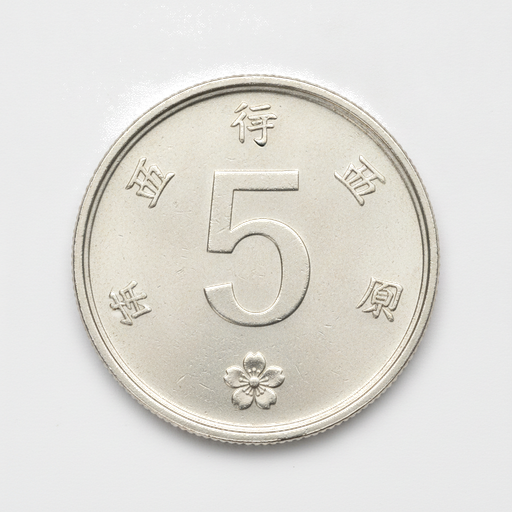
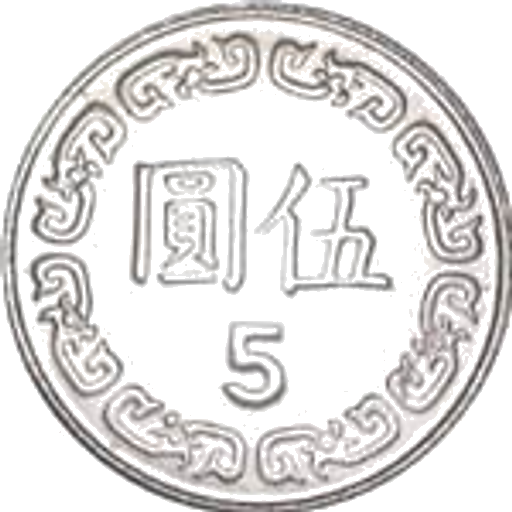
Use real NT coin photos with correct proportional sizes; add 20/50 元
Replaces the Nano-generated coin PNGs with the user-supplied real NT
coin photos (JPGs converted to transparent-background PNGs via sharp,
20/50 元 auto-cropped from their double-face source images).

Coin display diameters are scaled from the real millimetre sizes
(1 元 20 mm as the 16% baseline):

  1 元  20 mm  → 16.0%
  5 元  22 mm  → 17.6%
 10 元  26 mm  → 20.8%
 20 元  26.85 → 21.5%
 50 元  28 mm  → 22.4%

Denominations 20/50 元 are added to the pool when the 超過 20 元 toggle
is on (raising the target range to 25-99).

diff --git a/src/pages/money-count.js b/src/pages/money-count.js
@@ -1,31 +1,30 @@
 import { createCoinFigure, updateCoinFigure, totalOf } from '../components/coin-figure.js';
 
 function rollCoins({ allowTen, over20 }) {
-  const targetMin = over20 ? 15 : 3;
-  const targetMax = over20 ? 55 : 20;
+  const targetMin = over20 ? 25 : 3;
+  const targetMax = over20 ? 99 : 20;
+
+  // Larger denominations only kick in for the "over 20" mode; otherwise the
+  // exercise stays focused on 1/5 (+ 10 if enabled).
+  const denomsDesc = over20
+    ? (allowTen ? [50, 20, 10, 5] : [50, 20, 5])
+    : (allowTen ? [10, 5] : [5]);
 
   // Cap the number of coins to keep the counting exercise tractable.
-  for (let attempt = 0; attempt < 30; attempt++) {
+  for (let attempt = 0; attempt < 40; attempt++) {
     const target = targetMin + Math.floor(Math.random() * (targetMax - targetMin + 1));
     let remaining = target;
     const coins = [];
 
-    if (allowTen) {
-      const max = Math.floor(remaining / 10);
+    for (const d of denomsDesc) {
+      const max = Math.floor(remaining / d);
       const n = Math.floor(Math.random() * (max + 1));
-      for (let i = 0; i < n; i++) coins.push(10);
-      remaining -= n * 10;
-    }
-    {
-      const max = Math.floor(remaining / 5);
-      const n = Math.floor(Math.random() * (max + 1));
-      for (let i = 0; i < n; i++) coins.push(5);
-      remaining -= n * 5;
+      for (let i = 0; i < n; i++) coins.push(d);
+      remaining -= n * d;
     }
     for (let i = 0; i < remaining; i++) coins.push(1);
 
     if (coins.length >= 2 && coins.length <= 5) {
-      // shuffle
       for (let i = coins.length - 1; i > 0; i--) {
         const j = Math.floor(Math.random() * (i + 1));
         [coins[i], coins[j]] = [coins[j], coins[i]];
@@ -33,7 +32,7 @@ function rollCoins({ allowTen, over20 }) {
       return coins;
     }
   }
-  return [1, 5]; // extreme fallback
+  return [1, 5];
 }
 
 export function renderMoneyCount(root) {

diff --git a/src/components/coin-figure.js b/src/components/coin-figure.js
@@ -7,13 +7,22 @@ const COIN_SRC = {
   1:  `${B}assets/scenes-6/coin1.png`,
   5:  `${B}assets/scenes-6/coin5.png`,
   10: `${B}assets/scenes-6/coin10.png`,
+  20: `${B}assets/scenes-6/coin20.png`,
+  50: `${B}assets/scenes-6/coin50.png`,
 };
 
-// Diameter as a percentage of the scene container.
+// Diameter as a percentage of the scene container, scaled from the real-world
+// NT coin diameters (1 元 = 20 mm baseline):
+//   5 元 22 mm  → ×1.10
+//  10 元 26 mm  → ×1.30
+//  20 元 26.85 mm → ×1.34
+//  50 元 28 mm  → ×1.40
 const COIN_SIZE = {
-  1:  16,
-  5:  19,
-  10: 23,
+  1:  16.0,
+  5:  17.6,
+  10: 20.8,
+  20: 21.5,
+  50: 22.4,
 };
 
 // Pick a spot that does not overlap any already-placed coin. Compare